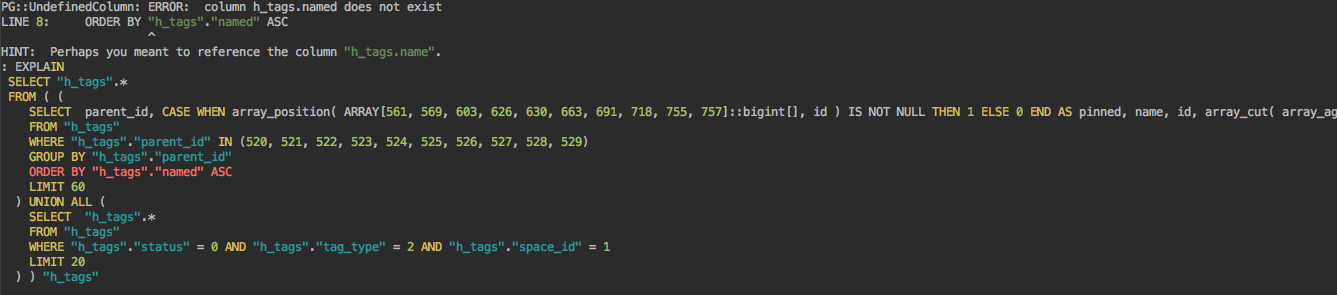
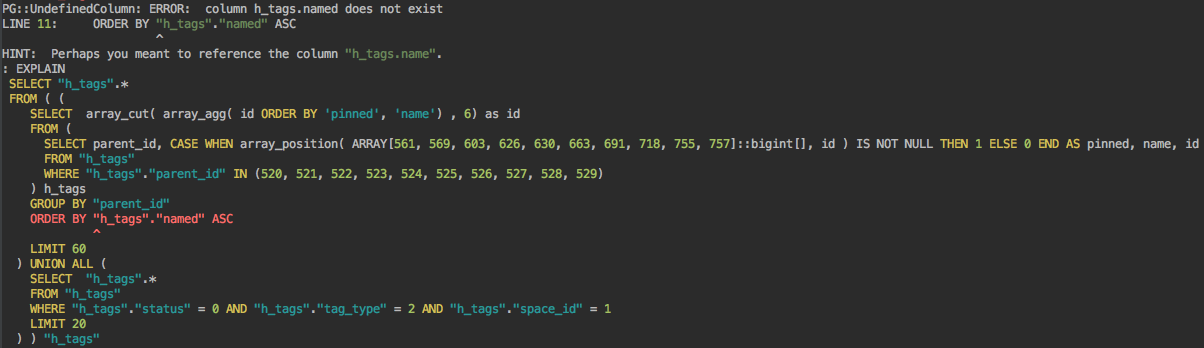
read me, red replaced with colorize_err, blank? with nil?

Changed region(s): [[0.0, 0.0, 1.0, 1.0]]

diff --git a/lib/niceql.rb b/lib/niceql.rb
@@ -10,6 +10,10 @@ module Niceql
       #cyan ANSI color
       "\e[0;36;49m#{str}\e[0m"
     end
+    def self.colorize_err(err)
+      #red ANSI color
+      "\e[0;31;49m#{err}\e[0m"
+    end
   end
 
   module ArExtentions
@@ -27,8 +31,8 @@ module Niceql
   end
 
   module Prettifier
-    INLINE_VERBS = 'ASC| IN|AS|WHEN|THEN|ELSE|END|AND|UNION|ALL'
-    NEW_LINE_VERBS = 'SELECT|FROM|WHERE|CASE|ORDER BY|LIMIT|GROUP BY'
+    INLINE_VERBS = %w(ASC IN AS WHEN THEN ELSE END AND UNION ALL WITH ON DISTINCT INTERSECT EXCEPT EXISTS NOT).join('| ')
+    NEW_LINE_VERBS = 'SELECT|FROM|WHERE|CASE|ORDER BY|LIMIT|GROUP BY|WITH|LEFT JOIN|RIGHT JOIN|JOIN|HAVING|OFFSET'
     VERBS = "#{INLINE_VERBS}|#{NEW_LINE_VERBS}"
     STRINGS = /("[^"]+")|('[^']+')/
     BRACKETS = '[\(\)]'
@@ -41,18 +45,19 @@ module Niceql
       end
     end
 
+
     def self.prettify_pg_err(err)
       err_line_num = err[/LINE \d+/][5..-1].to_i
       start_sql_line = err.lines[3][/HINT/] ? 4 : 3
       err_body = err.lines[start_sql_line..-1]
-      err_line = err_body[err_line_num-1].red
+      err_line = StringColorize.colorize_err( err_body[err_line_num-1] )
 
       err_body = err_body.join.gsub(/#{VERBS}/ ) { |verb| StringColorize.colorize_verb(verb) }
       err_body = err_body.gsub(STRINGS){ |str| StringColorize.colorize_str(str) }
 
       err_body = err_body.lines
       err_body[err_line_num-1]= err_line
-      err_body.insert( err_line_num, err.lines[2][err.lines[1][/LINE \d+:/].length+1..-1].red )
+      err_body.insert( err_line_num, StringColorize.colorize_err( err.lines[2][err.lines[1][/LINE \d+:/].length+1..-1] ) )
       puts err.lines[0..start_sql_line-1].join + err_body.join
     end
 
@@ -73,16 +78,16 @@ module Niceql
           indent += 1
         elsif verb == ')'
           # this also covers case when right bracket is used without corresponding left one
-          add_new_line = parentness.last.blank? || parentness.last[:nested]
+          add_new_line = parentness.last.nil? || parentness.last[:nested]
           indent -= add_new_line ? 2 : 1
           indent = 0 if indent < 0
           parentness.pop
         elsif verb == 'ORDER BY'
           # in postgres ORDER BY can be used in aggregation function this will keep it
           # inline with its agg function
-          add_new_line = parentness.last.blank? || parentness.last[:nested]
+          add_new_line = parentness.last.nil? || parentness.last[:nested]
         else
-          add_new_line = verb[/(#{INLINE_VERBS})/].blank?
+          add_new_line = verb[/(#{INLINE_VERBS})/].nil?
         end
         verb = StringColorize.colorize_verb(verb) if !['(', ')'].include?(verb) && colorize
 

diff --git a/README.md b/README.md
@@ -1,18 +1,22 @@
 # Niceql
 
-This is small, nice, simple and dependentless solution for SQL prettifiyng. 
-It can be used in irb console without any dependencies.
+This is small, nice, simple and dependentless solution for SQL prettifiyng for Ruby. 
+It can be used in irb console without any dependencies ( run ./console from bin and look for examples ).
+
+Any reasonable suggestions on formatting/coloring are welcome
 
 ## Before/After 
-###SQL prettifier: 
+### SQL prettifier: 
 ![alt text](https://github.com/alekseyl/niceql/raw/master/to_niceql.png "To_niceql")
 
-###PG errors prettifier 
+### PG errors prettifier 
+
 before: 
 ![alt text](https://github.com/alekseyl/niceql/raw/master/err_was.png "To_niceql")
 
 after:
 ![alt text](https://github.com/alekseyl/niceql/raw/master/err_now.png "To_niceql")
+
 
 ## Installation
 
@@ -32,7 +36,56 @@ Or install it yourself as:
 
 ## Usage
 
-TODO: Write usage instructions here
+### With ActiveRecord
+
+```ruby
+  # prettify to_sql 
+  Model.scope.to_niceql
+  
+  # prettify PG errors 
+  Model.scope_with_err.explain_err 
+```
+
+### Without ActiveRecord
+
+```ruby
+   puts Niceql::Prettifier.prettify_sql("SELECT * FROM ( VALUES(1), (2) ) AS tmp")
+   
+   # see colors in irb %) 
+   #=>  SELECT * 
+   #=>  FROM ( VALUES(1), (2) ) AS tmp
+
+   # rails combines err with query, so don't forget to do it yourself 
+   # to get real nice result you should execute on your DB prettified_sql! 
+   # otherwise you will not get such a nice output
+   
+   puts Niceql::Prettifier.prettify_pg_err(<<-ERR )
+ERROR:  VALUES in FROM must have an alias
+LINE 2:  FROM ( VALUES(1), (2) )
+              ^
+HINT:  For example, FROM (VALUES ...) [AS] foo.
+ SELECT err 
+ FROM ( VALUES(1), (2) )
+ ORDER BY 1
+ERR
+   
+
+# ERROR:  VALUES in FROM must have an alias
+# LINE 2:  FROM ( VALUES(1), (2) )
+#               ^
+#     HINT:  For example, FROM (VALUES ...) [AS] foo.
+#     SELECT err
+#     FROM ( VALUES(1), (2) )
+#          ^
+#     ORDER BY 1
+
+```
+## Limitations
+
+Right now it detect only uppercase verbs with simple indentation and parsing options. 
+Also if your console support more colors or different schemes, or you prefer different colorization you can override ColorizeString 
+methods. Current color are selected with dark and white console themes in mind, so it works good for dark, and good enough for white.
+
 
 ## Development
 
